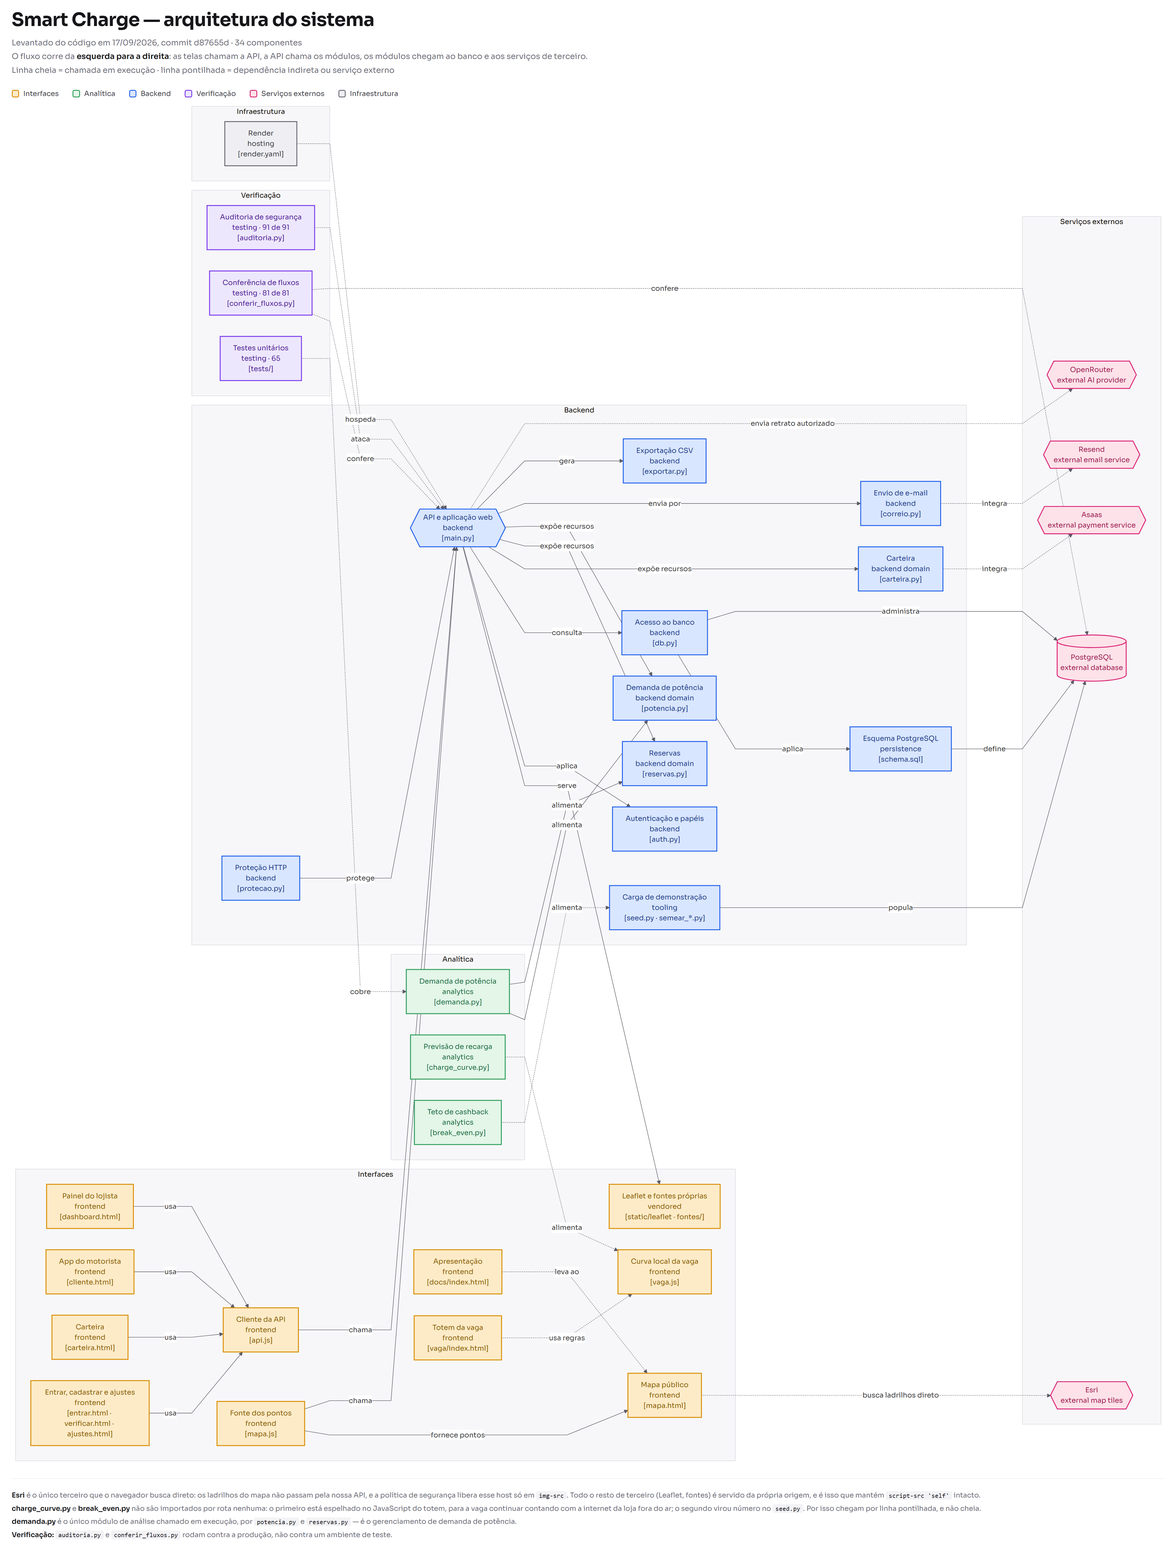
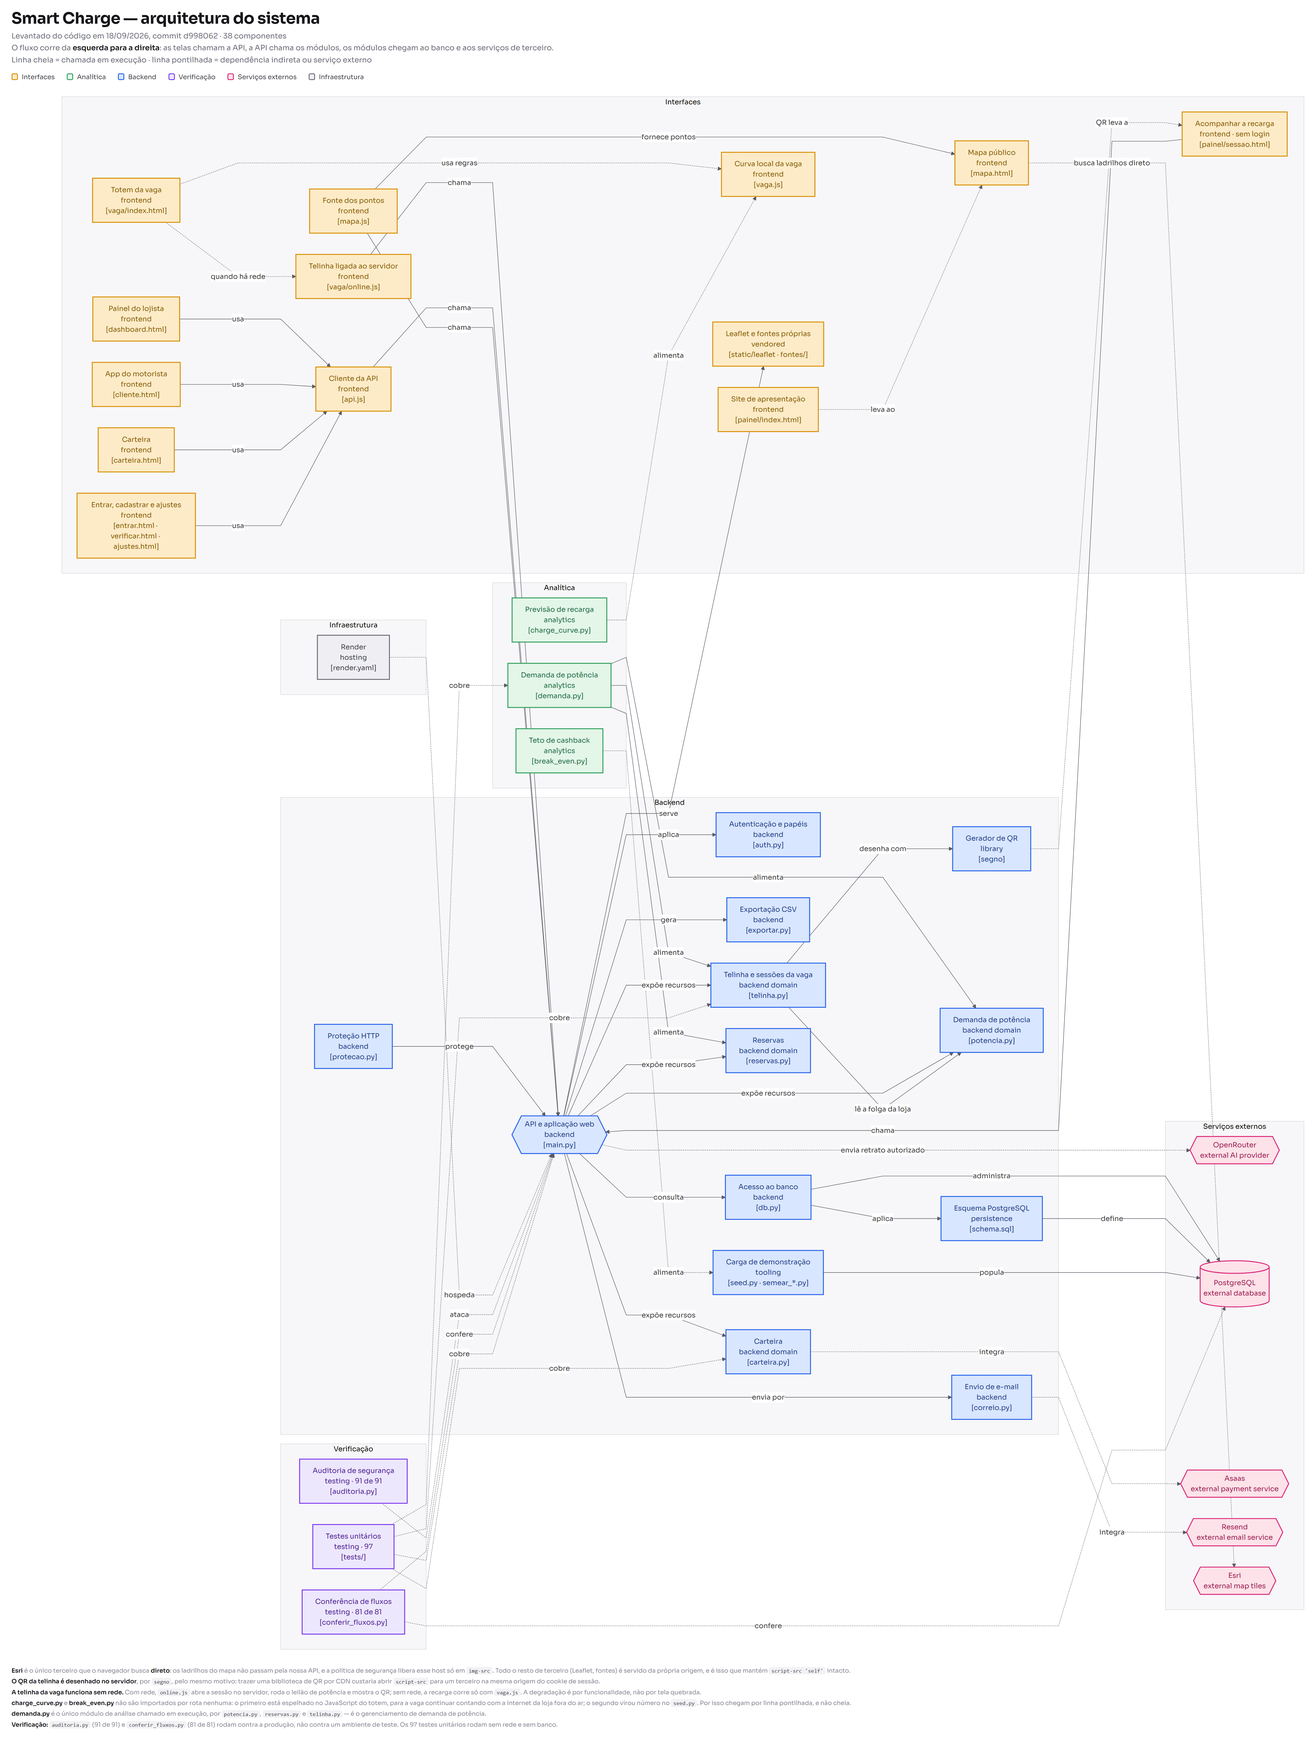
O dossie e os dois diagramas alcancam o projeto
As duas imagens estavam num retrato de anteontem. A do banco nao tinha o
`token` da sessao nem as seis colunas do leilao; a da arquitetura nao tinha
telinha.py, segno, online.js nem sessao.html -- nenhuma mencao, em nada.
Regeradas do esquema em producao e de uma auditoria nova do codigo:
38 componentes, 17 tabelas, 171 colunas, 48 indices, 41 checks.

A da arquitetura tambem corrige um erro que estava la desde o comeco:
apontava o site de apresentacao para docs/index.html. O site que a banca ve
e docs/painel/index.html; o outro e o dossie, e quem serve e o Pages.

No dossie, o que estava desencontrado do codigo:

  README            o bloco de estrutura nao citava telinha.py, carteira.py,
                    reservas.py, potencia.py, demanda.py, tests/ nem onze
                    outros arquivos. E dizia que a telinha e estatica, o que
                    deixou de ser verdade ontem
  README            ganhou a cadeia da tarifa, que nao estava escrita em
                    lugar nenhum: o que a distribuidora cobra da loja, o que
                    a loja cobra do motorista, e por que na ponta a margem da
                    energia e negativa de proposito
  README            ganhou a secao de gerenciamento de demanda -- a maior
                    peca de engenharia do projeto, 53 dos 97 testes, e nao
                    tinha uma linha
  ARQUITETURA       o fluxo da recarga descrevia o mundo do seed.py. Agora
[…]

diff --git a/README.md b/README.md
@@ -17,8 +17,9 @@ Recarga de veículos elétricos **como ativo comercial**. Dois produtos, um sist
 | **Apresentação** | <https://smartcharge.ia.br/painel/> | a própria API |
 | **Painel do lojista** | `.../painel/dashboard.html` | a própria API |
 | **Mapa de carregadores** | `.../painel/mapa.html` | a própria API |
+| **Telinha da vaga** | `.../vaga/?id=23` | a própria API |
 | **Dossiê** | `vitormk1.github.io/challange/` | GitHub Pages |
-| **Telinha da vaga** | `vitormk1.github.io/challange/vaga/` | GitHub Pages |
+| **Telinha sem servidor** | `vitormk1.github.io/challange/vaga/` | GitHub Pages |
 
 `/painel/` é a porta de entrada e não pede login: dali saem os dois caminhos,
 o painel (que pede) e o mapa (que não pede).
@@ -30,8 +31,20 @@ responde 200 e a requisição seguinte volta 401. Servindo a página pela própr
 API, o cookie é de primeira parte, `SameSite=Lax` basta e o CORS deixa de
 existir. O porquê inteiro está em [HOSPEDAGEM.md](HOSPEDAGEM.md), seção 4.
 
-O dossiê e a telinha continuam no Pages porque são estáticos de verdade — não
-têm login nem banco. A cópia do painel que ficou lá só redireciona.
+O dossiê continua no Pages porque é estático de verdade. A cópia do painel que
+ficou lá só redireciona.
+
+A telinha existe nos dois lugares, e a diferença importa. Servida pela API,
+com `?id=` de uma vaga real, ela **abre uma sessão de verdade**: entra no
+histórico da loja, mostra o QR que o motorista lê para acompanhar do celular,
+e roda o leilão de potência quando falta folga na rede. No Pages ela roda
+sozinha, em modo de demonstração — as chamadas são relativas e não encontram a
+API, então cai no caminho de sempre e a recarga corre no navegador.
+
+Isso é de propósito, e é a propriedade que nenhuma outra tela do sistema tem:
+uma tela ao lado do carregador precisa continuar acesa com a internet da loja
+fora do ar, que é justamente quando ela mais importa. A degradação é por
+funcionalidade, não por tela quebrada.
 
 ---
 
@@ -39,9 +52,14 @@ têm login nem banco. A cópia do painel que ficou lá só redireciona.
 
 ```
 docs/
-  index.html        o dossiê do projeto
+  index.html        o dossiê do projeto (servido pelo GitHub Pages)
   img/              a logo, em três tamanhos (256, 180 e 32)
-  vaga/             a telinha da vaga · serve também o celular pelo QR
+  vaga/
+    index.html      a telinha da vaga · mostra o QR que o motorista lê
+    vaga.js         a recarga: curva, custo e cashback, tudo no navegador
+    online.js       o outro lado — abre a sessão no servidor, roda o leilão
+                    de potência e busca o QR. Sem rede, nada disso aparece
+                    e a recarga corre como antes
   painel/
     index.html      o site de apresentação
     site.css        a folha dele — independente da referência
@@ -51,6 +69,14 @@ docs/
     mapa.js         Leaflet, pinos e a lista lateral
     dashboard.html  a página inteira: login, painel e os diálogos
     app.js          o painel — cards, edição, avisos, ditado, gráficos
+    cliente.html    o app do motorista: fidelidade, reservas e melhor hora
+    cliente.js      o que preenche essa tela
+    sessao.html     acompanhar a recarga no celular, sem login — é para onde
+    sessao.js       o QR da telinha leva
+    carteira.html   saldo, extrato e as cobranças Pix/boleto/cartão
+    entrar.html     login e cadastro
+    verificar.html  confirmação de e-mail
+    ajustes.html    perfil, foto e senha
     api.js          a conversa com a API, e o redirecionamento do Pages
     style.css       a folha da referência (447 KB), copiada sem alterar layout
     marca.css       a identidade preto-e-vermelho: só tokens de cor
@@ -65,15 +91,28 @@ api/
   auth.py           senhas (scrypt), sessões e o que cada papel pode fazer
   main.py           a API: login, dados por papel, painéis salvos, assistente
                     e transcrição de áudio — e serve o painel
+  carteira.py       a carteira do motorista e a integração com a Asaas
+  reservas.py       reservar uma vaga, e os R$ 10 que voltam na recarga
+  potencia.py       gerenciamento de demanda: folga, repartição, melhor hora
+  telinha.py        as sessões da vaga: leilão de potência, leituras e o QR
+  correio.py        envio de e-mail pela Resend, por HTTP
+  protecao.py       limite de tentativas, cabeçalhos de segurança e HSTS
+  exportar.py       despeja o banco num JSON, para conferência e backup
   seed.py           trinta dias de operação de três lojas, para demonstração
                     (APAGA o banco antes de recriar; pergunta antes)
-  exportar.py       despeja o banco num JSON, para conferência e backup
+  semear_*.py       cargas pontuais: mapa, demanda, bateria e a conta de demo
   trocar_senha.py   troca a senha de um usuário, antes de publicar
-  protecao.py       limite de tentativas, cabeçalhos de segurança e HSTS
+  testar_email.py   confere a configuração de e-mail sem mandar de verdade
   auditoria.py      dispara requisições reais contra a API e diz o que passou
+  conferir_fluxos.py percorre os fluxos de ponta a ponta, contra a produção
+  validar_armazenamento.py  confere que nada sensível foi parar onde não devia
 ai/
+  demanda.py        gerenciamento de demanda de potência — o único módulo de
+                    análise chamado em execução (por potencia, reservas e
+                    telinha): folga, repartição, bateria, leilão, melhor hora
   charge_curve.py   previsão de tempo de recarga (o núcleo do produto)
   break_even.py     até que percentual de cashback se paga, por segmento
+tests/              97 testes, sem rede e sem banco
 render.yaml         a configuração do serviço, versionada
 ```
 
@@ -419,6 +458,53 @@ comparação usa o mesmo código**, e o erro contra o realizado aparece no paine
 
 ---
 
+## Gerenciamento de demanda de potência
+
+`ai/demanda.py` é função pura, sem banco e sem relógio, e é isso que a pureza
+compra: dá para testar o pior caso — meio-dia de verão, ponta com a bateria
+vazia, quatro carros pedindo junto — sem servidor e sem esperar o dia chegar.
+São 53 dos 97 testes.
+
+**O teto.** A loja tem uma demanda contratada. O que os carregadores podem puxar
+é o que sobra dela depois da carga base da própria loja, com uma margem de
+segurança. No Grupo A ultrapassar gera penalidade faturada; no Grupo B não há
+demanda contratada e o teto vale como limite do disjuntor. O módulo guarda o
+grupo para a tela dizer a verdade em cada caso.
+
+**A repartição.** Quando o pedido passa do teto, a potência é repartida por
+*water-filling* — max-min justo. Quem pede pouco recebe tudo que pediu; o
+aperto cai sobre quem pede muito. Não é fila e não é divisão igual: dividir
+igual puniria o carro pequeno para aliviar o grande.
+
+**O sol muda o cashback.** Quando a geração solar passa do consumo da loja, a
+energia que sobra é mais barata que vendê-la de volta à rede. O `fator_cashback`
+multiplica o crédito nessas horas — o motorista ganha mais por carregar quando
+convém à loja, sem ninguém negociar nada.
+
+**Melhor hora, no app do motorista.** A conta de qual hora é mais barata já
+existia e só a telinha usava. Quem decide a hora de carregar, porém, é quem
+dirige. O card mostra duas coisas separadas, e não uma média: a hora mais barata
+(que vem da tarifa) e a hora de mais crédito (que vem do sol sobrando). Somar as
+duas num índice único daria um número que ninguém sabe ler.
+
+**A bateria olha as reservas.** A meta de carga da bateria não é uma regra fixa
+do tipo "carregue de madrugada": ela é calculada a partir do que as reservas do
+dia prometem puxar. O horizonte é de 6 horas — sem ele a meta só apareceria
+dentro da ponta, quando já é tarde para carregar barato.
+
+**O leilão de potência.** Quando falta folga *e* há outro carro pedindo, a
+telinha pergunta antes de começar: menos kW entregues em troca de mais crédito.
+O lojista configura as opções no painel, com um teto de multiplicador.
+
+O prêmio só vale se três coisas forem verdade ao mesmo tempo: a loja oferece
+aquela opção, o leilão está ligado, e **há disputa agora**. A terceira não é
+detalhe — sem ela bastaria mandar a escolha numa loja vazia para levar o dobro
+de cashback sem abrir mão de nada, e a loja pagaria prêmio por uma escassez que
+não existe. O prêmio compra potência de volta; sem ninguém na fila, não há o
+que comprar.
+
+---
+
 ## Modelo de negócio
 
 **Recarga paga, com cashback na loja.** O motorista paga a energia por kWh — a
@@ -431,6 +517,36 @@ O percentual de cashback é configurado por ponto, e o painel calcula até onde
 ele se paga: margem da energia + lucro da visita − amortização do equipamento,
 sobre o valor médio cobrado por recarga. O teto é travado em 100%, porque
 devolver mais do que a pessoa pagou não é cashback.
+
+### A cadeia da tarifa
+
+| degrau | onde mora | quanto |
+|---|---|---|
+| a distribuidora cobra da loja | `estabelecimentos.tarifa_kwh_brl` | R$ 0,7890/kWh |
+| na ponta, 18h–21h em dia útil | `tarifa_ponta_kwh_brl` | R$ 2,1500/kWh |
+| a loja cobra do motorista | `carregadores.preco_kwh_brl` | 1,15× a 3,04× a tarifa |
+| o que sobra | a margem da recarga | o resto |
+
+A tarifa base vem da Enel SP, Resolução Homologatória ANEEL 3.596/2026 — a
+ANEEL homologa a mesma para todo o grupo B convencional, e o custo efetivo
+varia com o ICMS e o regime tributário de cada loja.
+
+**O markup é do lojista, ponto a ponto.** Não há um número imposto pelo
+sistema: os 36 pontos em produção vão de 1,15× a 3,04×, mediana 1,65×. O
+`ai/break_even.py` mostra a sensibilidade — nenhum segmento fica negativo entre
+1,40× e 2,00×, e o caso que aperta é o supermercado, que é justamente o que
+não se pagava no modelo de cortesia.
+
+**Na ponta a margem da energia é negativa**, e isso não é um furo. A R$ 2,15/kWh
+a loja compra mais caro do que quase todo ponto cobra. Na ponta a recarga se
+paga pela **visita**, não pela energia — e é exatamente por isso que existem a
+bateria (carregada fora da ponta, olhando as reservas do dia) e o leilão de
+potência (menos kW entregues em troca de mais crédito).
+
+Cada sessão grava os dois lados: `valor_cobrado_brl` é o que o motorista pagou,
+`custo_energia_brl` é o que a energia custou à loja. O custo vai por incremento,
+com a tarifa da hora em que cada pedaço foi entregue — uma recarga que atravessa
+as 18h não pode ter a energia da tarde reprecificada pelo preço da noite.
 
 > **Modelo anterior, descontinuado.** Até 2026 havia um modo "cortesia": a
 > energia saía de graça até um teto em kWh e a loja absorvia o custo como

diff --git a/CARTEIRA.md b/CARTEIRA.md
@@ -1,9 +1,21 @@
 # Carteira do motorista
 
 Disponível em `/painel/carteira.html`, exclusivamente para contas de motorista.
-O saldo Pix nasce no extrato de lançamentos. Cashback é apresentado por loja,
-usando cupons ainda válidos de sessões vinculadas à conta (`clientes.usuario_id`);
-não é dinheiro sacável e não entra no saldo Pix.
+
+O saldo entra por **três formas**: Pix, boleto e cartão. Não existe campo de
+saldo: ele é a soma de `carteira_lancamentos`, então não há número guardado que
+possa divergir do extrato.
+
+**Cartão não passa por aqui.** A cobrança é criada por nós, mas o número é
+digitado no checkout hospedado da Asaas (o `invoiceUrl` que toda cobrança
+devolve). Nenhum dado de cartão entra neste servidor — o que mantém o projeto
+inteiro fora do escopo do PCI-DSS. Receber o número aqui para repassar seria
+menos código numa tela e muito mais responsabilidade em tudo: log, memória,
+backup, e a hospedagem no meio.
+
+Cashback é apresentado por loja, usando cupons ainda válidos de sessões
+vinculadas à conta (`clientes.usuario_id`); não é dinheiro sacável e não entra
+no saldo.
 
 ## Configurar no Render
 
@@ -28,14 +40,29 @@ Selecione `PAYMENT_CONFIRMED`, `PAYMENT_RECEIVED`, `PAYMENT_OVERDUE`,
 `PAYMENT_DELETED`, `PAYMENT_REFUNDED`, `PAYMENT_PARTIALLY_REFUNDED`,
 `PAYMENT_UPDATED` e `PAYMENT_RESTORED`.
 
+E mais três, que só existem no cartão: `PAYMENT_CHARGEBACK_REQUESTED`,
+`PAYMENT_CHARGEBACK_DISPUTE` e `PAYMENT_AWAITING_CHARGEBACK_REVERSAL`. Sem eles
+o webhook respondia "ignorado" e a pessoa ficava com o saldo enquanto o dinheiro
+era retirado da nossa conta — um jeito silencioso de sacar dinheiro da empresa.
+O tratamento é o mesmo de um estorno; a maquinaria já existia, só não era
+alcançada por esses status porque antes não havia cartão.
+
 A implementação segue a [autenticação oficial](https://docs.asaas.com/docs/authentication),
 os [eventos de cobrança](https://docs.asaas.com/docs/payment-events) e o
 [estado dos estornos](https://docs.asaas.com/docs/refunds).
 
 ## Comportamento
 
-Um Pix pendente do mesmo valor é reutilizado. Cobranças de outro valor podem
-ser criadas e aparecem no histórico. Fechar o código na tela não cancela a cobrança.
+Uma cobrança pendente do mesmo valor **e da mesma forma** é reutilizada — um
+boleto em aberto não impede gerar um Pix para pagar agora, que é justamente o
+caso de quem desistiu de esperar a compensação. Cobranças de outro valor podem
+ser criadas e aparecem no histórico. Fechar o código na tela não cancela a
+cobrança.
+
+O boleto vence em três dias; Pix e cartão são na hora. Para o boleto,
+`expiracao_em` recebe o vencimento — é a mesma pergunta que a coluna já
+respondia para o Pix, e reaproveitar faz a recuperação de pendente funcionar de
+graça: enquanto não vencer, pedir outro devolve o mesmo em vez de emitir dois.
 A validade é a retornada pela Asaas; não é um prazo inventado pelo aplicativo.
 
 O navegador consulta apenas o estado local a cada seis segundos enquanto
@@ -54,13 +81,13 @@ na Asaas: o aplicativo não presume uma garantia de idempotência externa.
 
 ## Validação
 
-`pip install -r requirements-dev.txt`
+`pip install -r requirements-dev.txt`  (precisa do `httpx2`, ver CONTRIBUTING.md)
 
 `python -m unittest discover -s tests -v`
 
 Os testes não usam banco remoto nem dinheiro real. Antes de movimentar dinheiro,
 valide na sua conta sandbox criação, pagamento, webhook repetido, retomada do QR
-e estorno. O schema adiciona cinco colunas, sem reescrever dados de carteira.
+e estorno. O schema adiciona colunas, sem reescrever dados de carteira.
 
 O pagamento das recargas pela carteira ainda depende da integração operacional
 com os carregadores. Esta versão adiciona e reconcilia saldo e mostra cashback

diff --git a/ARQUITETURA_DE_DADOS.md b/ARQUITETURA_DE_DADOS.md
@@ -197,8 +197,9 @@ recebe. Criado só por `main`.
 manda no máximo 800 — o resto continua no banco, que é onde tem que ficar.
 
 **`cupons`** — `codigo` (único), `sessao_id`, `desconto_brl`, `emitido_em`, `usado_em`,
-`expira_em`. É o **mecanismo de atribuição**: a telinha emite o código no fim da recarga, a pessoa
-digita no caixa, e é isso que liga a venda àquela recarga.
+`expira_em`. É o **mecanismo de atribuição**: o código sai no fim da recarga, a pessoa digita no
+caixa, e é isso que liga a venda àquela recarga. Hoje quem escreve aqui é só o `seed.py` — ver a
+pendência na seção 8.
 
 **`vendas`** — `estabelecimento_id`, `cupom_id`, `sessao_id`, `valor_brl`, `momento`. Só entram
 vendas com cupom: sem cupom digitado, não há como afirmar que o carregador trouxe aquela compra.
@@ -295,17 +296,33 @@ guarda. Uma preferência nova não exige mexer no servidor.
 
 1. Motorista encosta na vaga e pluga. A **telinha** (`docs/vaga/`) mostra tempo até 80%, tempo até
    cheio e o custo — previsão de `ai/charge_curve.py`, modelo CC-CV com joelho derivado do C-rate.
-2. Nasce uma linha em `sessoes` com `previsao_fim` e `previsao_custo_brl` **gravadas no início**.
-3. Enquanto carrega, uma linha em `leituras` a cada 5 minutos.
-4. Fim da recarga: `fim`, `energia_kwh`, `soc_final`, `custo_energia_brl` e — se o ponto for `pago`
-   — `valor_cobrado_brl`.
-5. **Toda recarga** emite um `cupom` com o cashback daquela sessão. A pessoa digita no caixa.
+   Se faltar folga na rede e houver outro carro pedindo, ela pergunta antes de começar: é o
+   **leilão de potência**, menos kW em troca de mais crédito.
+2. `POST /vagas/{id}/sessao` abre a linha em `sessoes` e devolve um `token` — o segredo do QR.
+   Se o motorista aceitou uma oferta, `leilao_potencia_pct` e `leilao_fator` ficam gravados ali.
+3. Enquanto carrega, `POST /sessoes/{token}/leitura` a cada minuto grava uma linha em `leituras`
+   e atualiza a sessão: `energia_kwh`, `valor_cobrado_brl`, `cashback_brl` e `custo_energia_brl`.
+   O custo vai **por incremento**, com a tarifa da hora em que cada pedaço foi entregue — uma
+   recarga que atravessa as 18h não pode ter a energia da tarde reprecificada pela ponta.
+4. Em paralelo, quem leu o QR acompanha em `GET /s/{token}`, sem login e sem instalar nada.
+   Token e não id sequencial: id na URL deixaria qualquer um varrer as recargas dos outros.
+5. Fim da recarga: `situacao` vira `concluida` e entra o `fim`.
 6. O caixa lança a `venda` com o `cupom_id`. **É só aqui que a venda vira "atribuída".**
 7. **Painel**: `GET /dados` traz tudo, `metricas()` soma no navegador e os cards desenham. Não há
    WebSocket — é carregamento explícito, como no BMS.
 
-> **Etapa 1 a 4 hoje vêm do `seed.py`.** Quando o carregador falar OCPP, entra um processo separado
-> escrevendo `sessoes` e `leituras`, e a seção 1 deste arquivo precisa ganhar a linha dele.
+> **O elo 5 → 6 ainda não fecha sozinho.** Quem escreve em `cupons` hoje é só o `seed.py`. Uma
+> sessão aberta pela telinha calcula o `cashback_brl` e para ali: ela não tem `cliente_id`, porque
+> não há login no carregador, então não existe a quem atribuir o crédito. O caminho natural é o
+> motorista reivindicar a sessão pelo QR — ele já está logado no celular, e o token prova que
+> esteve ao lado daquela vaga. **Está pendente.**
+
+> **Sem rede, nada dos passos 2 a 5 acontece** e a recarga corre só no navegador, como antes de a
+> telinha ter servidor. É deliberado: tela apagada ao lado da vaga é pior que nenhuma tela.
+
+> **Os trinta dias de histórico vêm do `seed.py`.** Quando o carregador falar OCPP, as leituras
+> deixam de vir da telinha e passam a vir do equipamento, e a seção 1 deste arquivo precisa ganhar
+> a linha dele.
 
 ---
 

diff --git a/CONTRIBUTING.md b/CONTRIBUTING.md
@@ -194,6 +194,35 @@ python -m uvicorn main:app --host 127.0.0.1 --port 8000 --app-dir api --reload
 
 Abre em <http://127.0.0.1:8000/painel/>.
 
+### 4. Rodar os testes
+
+```bash
+pip install -r requirements-dev.txt
+python -m unittest discover -s tests
+```
+
+São **97 testes**, e nenhum deles precisa de rede ou de banco — dá para rodar
+com o `.env` vazio. Rode antes de abrir o PR.
+
+O `requirements-dev.txt` existe só por causa do `TestClient` do Starlette, que
+não traz cliente HTTP. A partir do Starlette 1.6 ele quer **`httpx2`**, e não o
+`httpx` — com o pacote errado instalado, as duas suítes que usam `TestClient`
+nem importam e o `discover` roda **67 em vez de 97**. Ele acusa dois erros, mas
+a mensagem é de import e passa batido. O que denuncia é o total: confira o
+número.
+
+### 5. Conferir contra a produção
+
+```bash
+set -a && . ./.env && set +a
+python api/auditoria.py https://smartcharge.ia.br        # 91 de 91
+python api/conferir_fluxos.py https://smartcharge.ia.br  # 81 de 81
+```
+
+Os dois rodam **contra o que está no ar**, não contra um ambiente de teste. O
+`conferir_fluxos` cria um motorista de teste e o apaga no fim. Nenhum dos dois
+cria cobrança na Asaas, que está em produção.
+
 ---
 
 ## ⚠ O banco é compartilhado — cuidado com o seed
